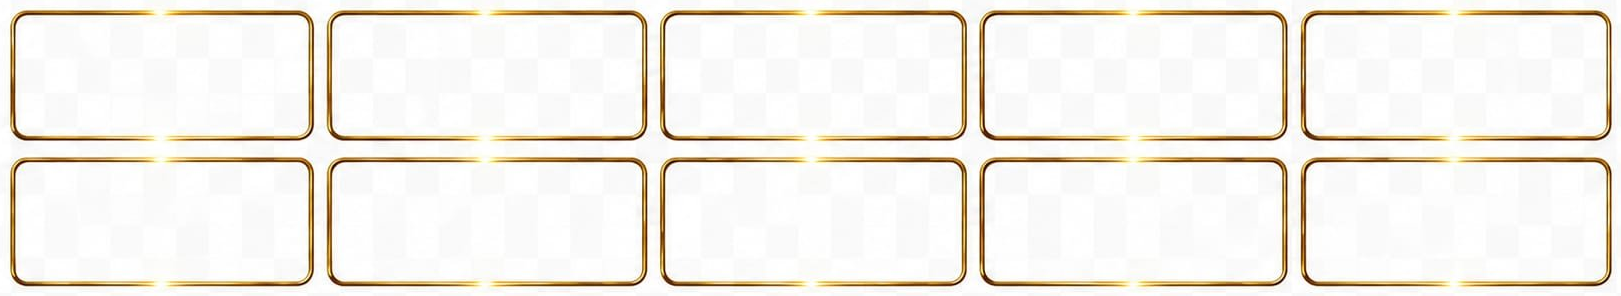
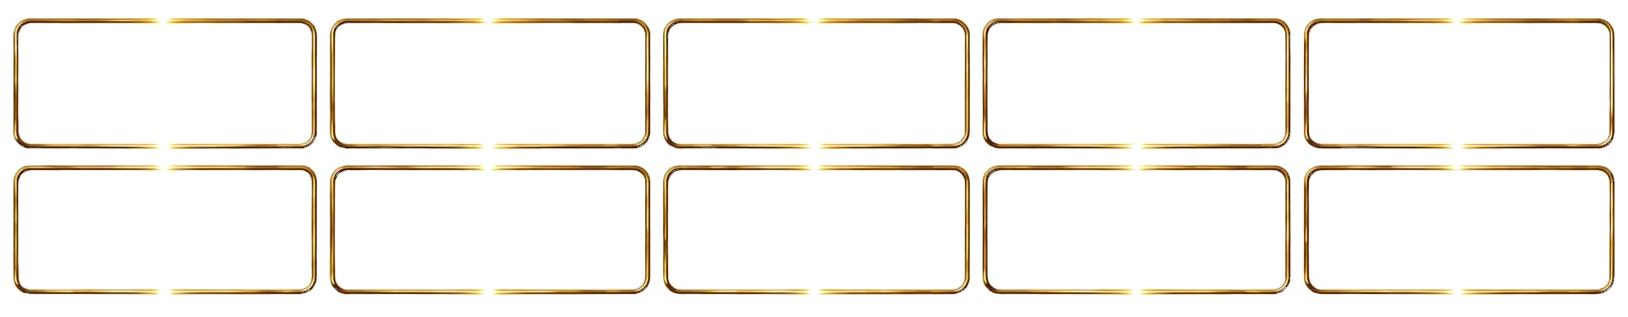
Sponsor-raster transparant (wit verwijderd), frames behouden

Changed region(s): [[0.0, 0.5169, 1.0, 0.973], [0.0, 0.0304, 1.0, 0.4865]]

diff --git a/src/App.jsx b/src/App.jsx
@@ -2966,8 +2966,8 @@ HEADLINE: 1 zin. Positief en simpel.`;
                             {/* 7. SPONSORS */}
                             {storySponsors.length>0 && (
                               <div style={{flexShrink:0,display:"flex",justifyContent:"center",padding:"1% 1% 4%"}}>
-                                <div style={{position:"relative",width:"94%",aspectRatio:"1621/296"}}>
-                                  <div style={{position:"absolute",top:"5%",bottom:"5%",left:"3%",right:"3%",display:"flex",flexDirection:"column",gap:"8%",zIndex:1}}>
+                                <div style={{position:"relative",width:"94%",aspectRatio:"1628/317"}}>
+                                  <div style={{position:"absolute",top:"9%",bottom:"9%",left:"3%",right:"3%",display:"flex",flexDirection:"column",gap:"9%",zIndex:1}}>
                                     {[storySponsors.slice(0,5),storySponsors.slice(5,10)].map((row,ri)=>(
                                       <div key={ri} style={{display:"flex",flex:1,gap:"1.5%"}}>
                                         {Array.from({length:5},(_,ci)=>row[ci]||null).map((s,ci)=>(
